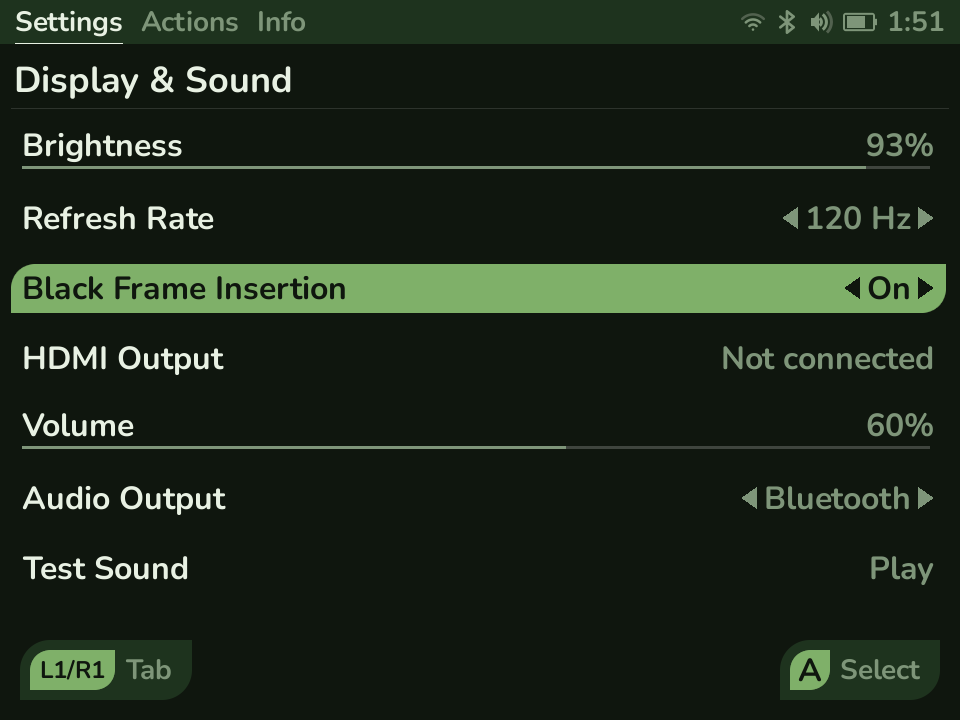
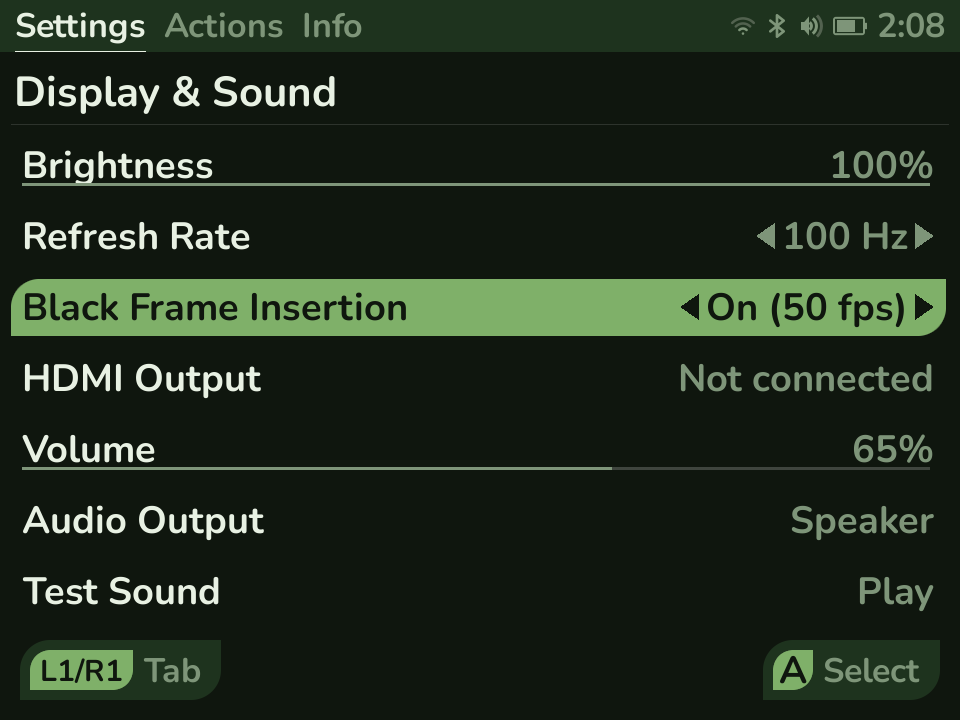
docs: 100 Hz for PAL, and 90 Hz is gone
The refresh rate setting now offers 60, 100 and 120 Hz. Rather than list
them, the pages now explain the rule behind them: each rate divides evenly
into a frame rate, and a rate that does not divide has to hold some frames on
screen a refresh longer than others, which is the stutter you see. That makes
100 Hz for 50fps PAL self-explanatory instead of arbitrary, and it is the same
reason 90 Hz left - it divided evenly into nothing anyone plays.

Black Frame Insertion is no longer described as a 120 Hz feature. It needs a
refresh that is twice the game's frame rate, so it is available at 120 for
60fps and at 100 for 50fps PAL. The old settings page said to leave it off for
PAL games because it "does not strobe cleanly" - that was the only outright
false line here, since PAL is now exactly what 100 Hz exists for.

Two things stated plainly because users will hit them:

BFI is one setting, not a per-game one. A 60fps game left running at 100 Hz
gets paced down to 50 and runs slow. The row names the frame rate it is set up
for ("On (50 fps)") and the docs say to match it to what you are playing.

At 100 Hz the strobe is 50 Hz, exactly like a PAL CRT, and some people see
that as flicker. Better to say so than to have someone assume their device is
faulty. The useful part is that turning BFI off still leaves 100 Hz smoothing
PAL motion on its own.

The shader page keeps its GBA Color and CRT Lite warnings unchanged - those
[…]

diff --git a/src/content/docs/guide/settings.md b/src/content/docs/guide/settings.md
@@ -37,23 +37,34 @@ Theme and layout, under **Settings → Appearance**.
 
 ## Display & Sound
 
-![The Display & Sound settings page: Brightness and Volume sliders, Refresh Rate and Audio Output cyclers, Black Frame Insertion on, HDMI Output grayed out as Not connected, and a Test Sound row](/settings-display.png)
+![The Display & Sound settings page: Brightness and Volume sliders, Refresh Rate set to 100 Hz, Black Frame Insertion reading "On (50 fps)", HDMI Output grayed out as Not connected, Audio Output on Speaker, and a Test Sound row](/settings-display.png)
 
 - **Brightness** - screen backlight level.
-- **Refresh Rate** - display refresh: **60**, **90**, or **120 Hz**. Higher rates
-  feel smoother in the launcher and in games that can keep up; 60 is the most
-  power-efficient. On a TV this setting also picks the HDMI mode and the sharp-versus-
-  smooth trade-off (see [How the TV picture works](#how-the-tv-picture-works)).
-  The panel only advertises 60 Hz, so the higher rates are a timing overclock - we
+- **Refresh Rate** - display refresh: **60**, **100**, or **120 Hz**. Each one divides
+  evenly into a frame rate, which is what keeps motion even: **60** and **120** suit
+  60fps (NTSC) games, and **100** suits 50fps (PAL) games. A rate that does not divide
+  evenly has to hold some frames on screen a refresh longer than others, and that
+  unevenness is what you see as stutter in scrolling - which is why PAL games look
+  better at 100 than at 60. Of the two NTSC rates, 120 shows less motion blur and 60
+  is the most power-efficient. On a TV this setting also picks the HDMI mode and the
+  sharp-versus-smooth trade-off (see
+  [How the TV picture works](#how-the-tv-picture-works)). The panel only advertises
+  60 Hz, so the higher rates are a timing overclock - we
   [measured the panel optically](/panel-refresh-measurement/) to confirm 120 Hz is
   real.
 - **Black Frame Insertion** - inserts a black frame between game frames to cut
-  motion blur, for a sharper, more CRT-like image in fast-scrolling games. It only
-  works cleanly at **120 Hz**, so it is grayed out as "120 Hz only" at other refresh
-  rates. It applies to RetroArch-based games, on the built-in screen or on a 120 Hz
-  TV, and trades some brightness for the clarity, so turn Brightness up to compensate.
-  Best for 60fps titles; leave it off for 50fps (PAL) games, where it does not strobe
-  cleanly.
+  motion blur, for a sharper, more CRT-like image in fast-scrolling games. It needs a
+  refresh rate that is exactly twice the game's frame rate, so that every frame gets
+  one lit refresh and one black one: **120 Hz** for 60fps games and **100 Hz** for
+  50fps (PAL) games. At 60 Hz there is no spare refresh to blank, so the row is grayed
+  out as "100/120 Hz only". The row names the frame rate it is currently set up for,
+  such as "On (50 fps)" - match that to what you are playing, because it is a single
+  setting rather than a per-game one, and a 60fps game left running at 100 Hz gets
+  paced down to 50 and runs slow. It applies to RetroArch-based games, on the built-in
+  screen or on a 120 Hz TV, and trades some brightness for the clarity, so turn
+  Brightness up to compensate. At 100 Hz the strobe is 50 Hz, exactly like a PAL CRT,
+  which some people see as flicker - if it bothers you, leave it off and keep the 100 Hz
+  refresh, which still smooths PAL motion on its own.
 - **HDMI Output** - send the picture to a TV over HDMI in the right shape. **Off**
   keeps everything on the built-in screen; **4:3** sends a pillarboxed, correctly
   proportioned image (black bars on the sides, no stretching); **Stretch** fills a
@@ -73,9 +84,11 @@ Theme and layout, under **Settings → Appearance**.
 
 When you connect a TV, the **Refresh Rate** setting decides the trade-off between a
 sharp picture and a smooth one, and Leaf picks the best HDMI mode the TV actually
-supports:
+supports. The setting offers just **60** and **120 Hz** while a TV is connected,
+since no TV takes the 100 Hz PAL mode and every rate below 120 lands on the same
+720p picture anyway:
 
-- **60 or 90 Hz** sends **720p**. The handheld's 4:3 image lands on the TV one pixel
+- **60 Hz** sends **720p**. The handheld's 4:3 image lands on the TV one pixel
   for one with no scaling, so it is pin-sharp. This is the safe default and works on
   every HDMI TV.
 - **120 Hz** sends **1080p at 120 Hz** (when the TV reports it). Motion is smoother

diff --git a/src/content/docs/guide/features.md b/src/content/docs/guide/features.md
@@ -47,16 +47,20 @@ follow the same setting.
 The Pocket 1 panel is rated for 60Hz, but Leaf drives it faster
 (**Settings → Display & Sound**):
 
-- **90 or 120Hz refresh** - a smoother launcher and smoother games on a screen the
+- **100 or 120Hz refresh** - a smoother launcher and smoother games on a screen the
   stock firmware runs at 60. Games launched through RetroArch inherit the higher
-  rate too. 60Hz stays available for the longest battery life. The panel only
-  advertises 60, so we [measured it optically](/panel-refresh-measurement/) to
-  confirm the higher rates are real.
-- **Black Frame Insertion** - an optional extra at 120Hz that flashes a black frame
-  between game frames to cut LCD motion blur, for a sharper, more CRT-like image in
-  fast-scrolling games. It works in RetroArch cores and is best with 60fps titles.
-  It trades some brightness for the clarity, so turn brightness up to compensate.
-  See [Settings → Display & Sound](/guide/settings/#display--sound).
+  rate too. Each rate divides evenly into a frame rate, so motion stays even: 120 for
+  60fps (NTSC) games, and **100 for 50fps (PAL) games**, which judder at every other
+  rate because 50 does not divide into them. 60Hz stays available for the longest
+  battery life. The panel only advertises 60, so we
+  [measured it optically](/panel-refresh-measurement/) to confirm the higher rates
+  are real.
+- **Black Frame Insertion** - an optional extra that flashes a black frame between
+  game frames to cut LCD motion blur, for a sharper, more CRT-like image in
+  fast-scrolling games. It needs a refresh that is twice the game's frame rate, so it
+  is available at 120Hz for 60fps games and 100Hz for 50fps PAL games. It works in
+  RetroArch cores and trades some brightness for the clarity, so turn brightness up to
+  compensate. See [Settings → Display & Sound](/guide/settings/#display--sound).
 
 ## Lighting (RGB ring)
 

diff --git a/src/content/docs/guide/troubleshooting.md b/src/content/docs/guide/troubleshooting.md
@@ -93,9 +93,13 @@ stick's range needs calibrating. Open **Joe's Calibrage** from the **Apps** tab 
 
 ## Black Frame Insertion is grayed out
 
-Black Frame Insertion only works at 120Hz, so it shows "120 Hz only" until you raise
-the refresh rate. Set **Settings → Display & Sound → Refresh Rate** to **120**, then the
-toggle becomes available. See [Settings → Display & Sound](/guide/settings/#display--sound).
+Black Frame Insertion needs a refresh rate that is twice the game's frame rate, so that
+every frame gets one lit refresh and one black one. At 60 Hz there is no spare refresh to
+blank and the row shows "100/120 Hz only". Set **Settings → Display & Sound → Refresh
+Rate** to **120** for 60fps games or **100** for 50fps (PAL) games, and the toggle becomes
+available. The row then names the frame rate it is set up for, such as "On (50 fps)" -
+match that to what you are playing, or a 60fps game running at 100 Hz will be paced down
+to 50 and run slow. See [Settings → Display & Sound](/guide/settings/#display--sound).
 
 ## Games, saves, or box art don't stick after a reboot
 

diff --git a/src/content/docs/guide/shaders.md b/src/content/docs/guide/shaders.md
@@ -48,6 +48,11 @@ two apart regardless.
 **CRT Lite** also wants BFI off. A PlayStation test with both enabled fell to
 around 50 fps, against full speed at 60 Hz and 120 Hz with BFI off.
 
+Both of those results were measured at 120 Hz. Black Frame Insertion is also
+available at 100 Hz for 50fps (PAL) games, which asks for fewer frames per second
+and so should be easier on a core, but these shaders have not been tested there -
+if a PAL game with a shader runs short of full speed, turn BFI off first.
+
 Worth remembering generally: scanlines and BFI each cost you some brightness,
 and using both costs more.
 

diff --git a/src/content/docs/panel-refresh-measurement.md b/src/content/docs/panel-refresh-measurement.md
@@ -35,7 +35,7 @@ clk_MHz = 782842 x Hz / 1,000,000 = 0.782842 x Hz
 | Rate | Pixel clock |
 | --- | --- |
 | 60 Hz | 46.97 MHz |
-| 90 Hz | 70.46 MHz |
+| 100 Hz | 78.28 MHz |
 | 120 Hz | 93.94 MHz |
 
 At 120 Hz the driver reports `clk[93940] real_clk[93940]`. Requested and achieved are
